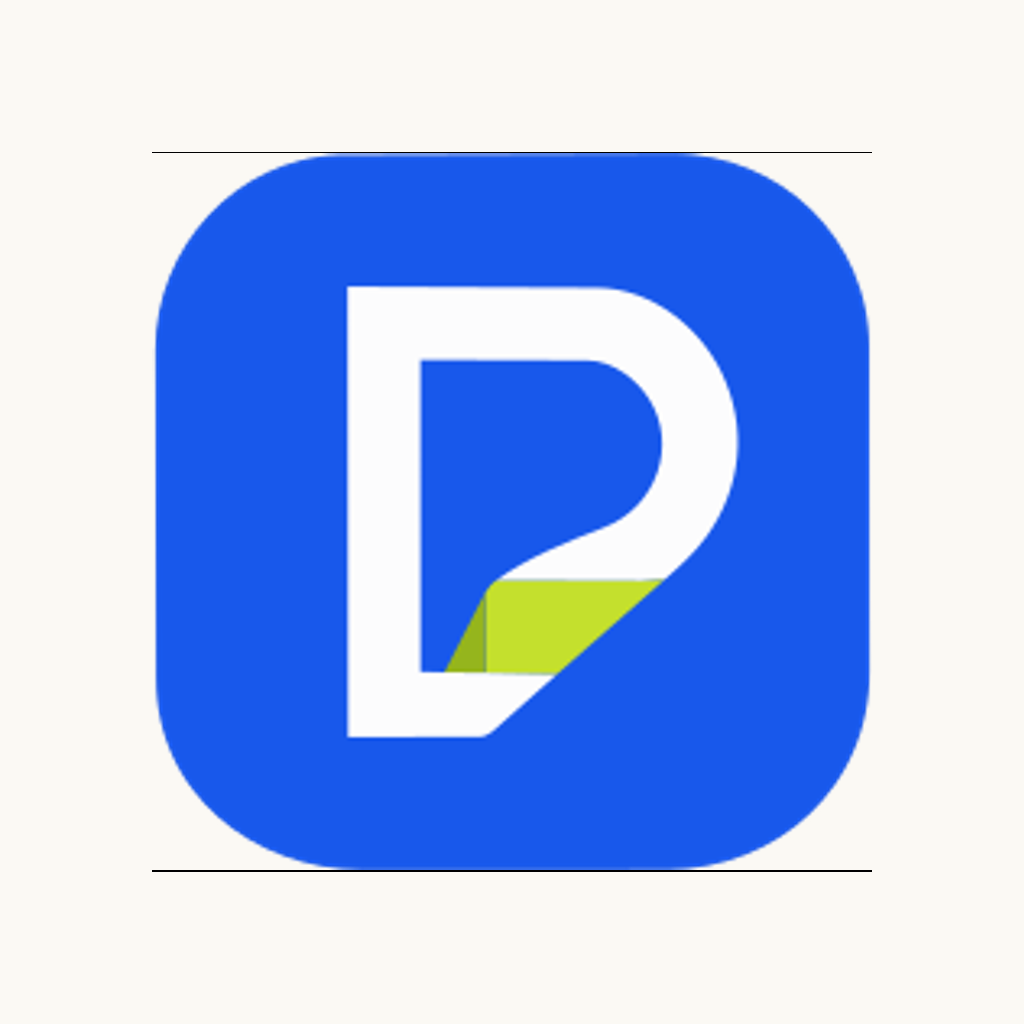
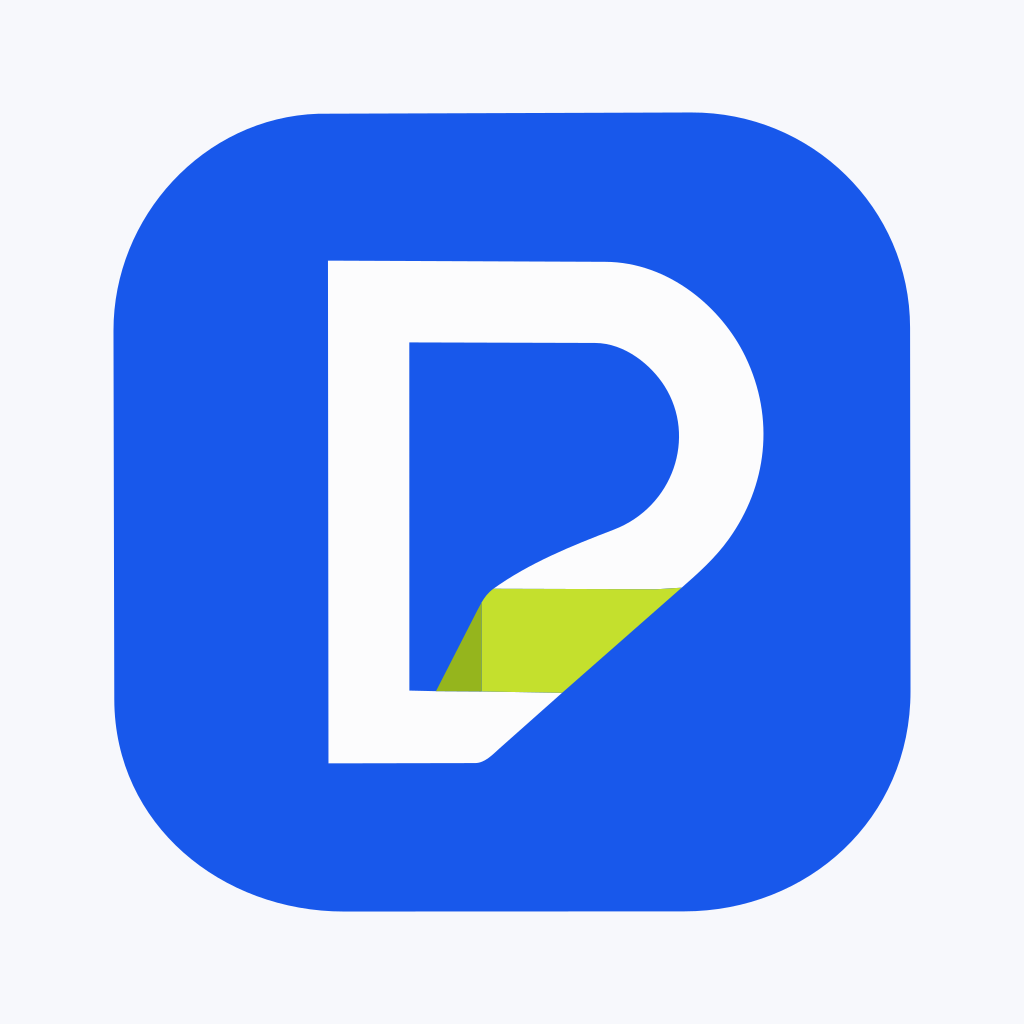
chore: prepare Play Store release assets

Changed region(s): [[0.0938, 0.0938, 0.9062, 0.9062], [0.3125, 0.25, 0.75, 0.75], [0.5625, 0.5, 0.625, 0.5312]]

diff --git a/src/app/(tabs)/dashboard/index.tsx b/src/app/(tabs)/dashboard/index.tsx
@@ -756,19 +756,26 @@ const styles = StyleSheet.create({
   },
   metaBlock: {
     minWidth: 0,
-    flex: 1,
+    flexBasis: 0,
+    flexGrow: 1,
+    flexShrink: 1,
   },
   metaRight: {
     alignItems: 'flex-end',
+    paddingLeft: SPACING.sm,
   },
   metaLabel: {
+    maxWidth: '100%',
+    flexShrink: 1,
     color: COLORS.textSecondary,
   },
   metaValue: {
+    maxWidth: '100%',
     marginTop: 2,
     color: COLORS.primary,
   },
   metaValueGreen: {
+    maxWidth: '100%',
     marginTop: 2,
     color: COLORS.surfaceTint,
   },

diff --git a/docs/store/google-play/assets/README.md b/docs/store/google-play/assets/README.md
@@ -1,0 +1,26 @@
+# Google Play Preview Assets
+
+These files are ready to upload to the English (United States) Play Store listing.
+
+## Upload files
+
+- `app-icon-512.png` - 512 x 512, 32-bit PNG with alpha, 11 KB.
+- `feature-graphic-1024x500.png` - 1024 x 500, 24-bit PNG without alpha, 38 KB.
+- `screenshots/en-US/01-dashboard.png` - 1080 x 1920, 24-bit PNG without alpha.
+- `screenshots/en-US/02-plan.png` - 1080 x 1920, 24-bit PNG without alpha.
+- `screenshots/en-US/03-transactions.png` - 1080 x 1920, 24-bit PNG without alpha.
+- `screenshots/en-US/04-languages.png` - 1080 x 1920, 24-bit PNG without alpha.
+
+The icon uses the Pocket Ahead vector mark from `assets/branding/app-icon-source.svg`. The feature graphic uses the existing Pocket Ahead wordmark and exact brand palette; it does not add claims or third-party artwork. The screenshots are captures of the Android app UI, not promotional mockups.
+
+## Suggested alt text
+
+- Feature graphic: Pocket Ahead wordmark beside a simplified dashboard showing a covered plan, progress chart and spending bars.
+- Dashboard: Pocket Ahead dashboard showing safe-to-spend total, daily allowance, next income date and remaining commitments.
+- Plan: Financial life map showing a 12-month plan estimate, monthly obligations and a planning insight.
+- Transactions: Transaction history with categorized grocery and coffee expenses, filters, search and quick add.
+- Languages: Language selector showing English, French, Arabic, Spanish, German, Portuguese and Italian with country flags.
+
+## Validation
+
+The four phone screenshots use the recommended 9:16 portrait ratio and are at least 1080 pixels on the short side. Dimensions, color modes and alpha requirements were checked locally on 2026-08-09 against Google Play's preview-asset requirements.

diff --git a/docs/store/google-play/release-checklist.md b/docs/store/google-play/release-checklist.md
@@ -12,6 +12,7 @@
 - [x] Clean Android prebuild and inspect the merged release manifest.
 - [x] Build and install a debug Android APK on the API 37 emulator; verify a cold start without native or JavaScript errors.
 - [x] Build release-mode APK and AAB packages from a clean short-path checkout; release lint and all 683 Gradle tasks passed. Install the APK on the API 37 emulator and verify an offline cold start with persisted data. These local artifacts are debug-signed for QA only, not Play distribution.
+- [x] Rebuild the final release-mode APK and AAB after the responsive dashboard and app-icon corrections; all 739 clean APK tasks and the subsequent AAB packaging passed. Install the APK on the API 37 emulator and verify a standalone launch without Metro or fatal runtime errors.
 - [ ] Build a signed production AAB with EAS and install an internal-test APK on a physical Android device.
 
 ## Runtime checks
@@ -45,7 +46,8 @@
   - `https://harriselmac-collab.github.io/pocket-ahead-legal/delete-account.html`
 - [ ] Supabase leaked-password protection enabled.
 - [ ] Data safety, Financial features, Content rating and App access forms match the release build.
-- [ ] Store screenshots, feature graphic and icon uploaded.
+- [x] Store icon, feature graphic and four 1080 x 1920 phone screenshots prepared and validated in `docs/store/google-play/assets`.
+- [ ] Store screenshots, feature graphic and icon uploaded in Play Console.
 - [ ] Internal test completed before production rollout.
 
 ## Known release-engineering caveat
